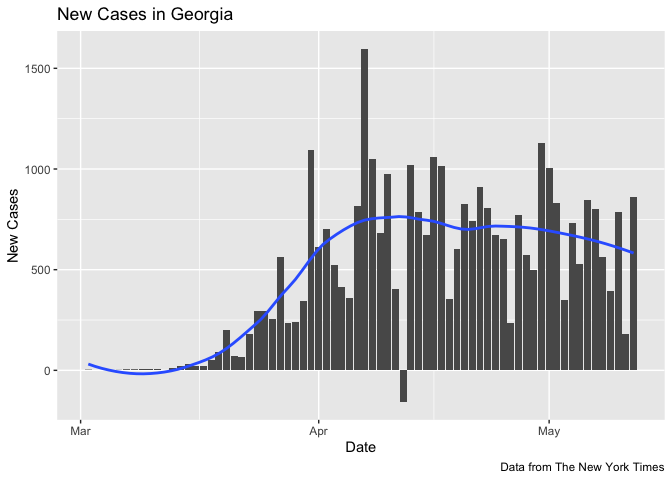
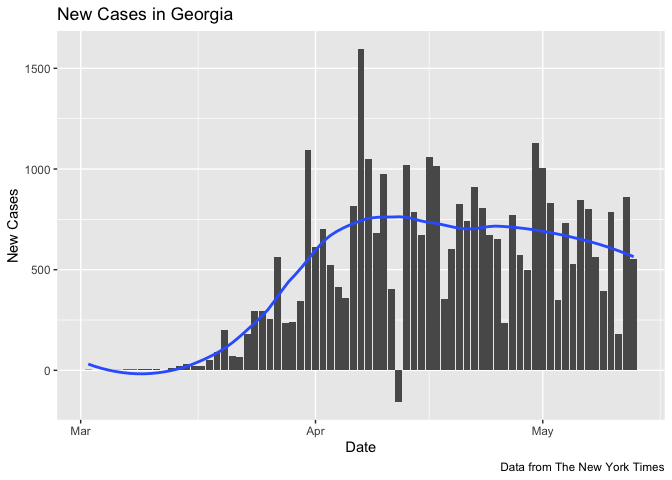
Updated data

Changed region(s): [[0.25, 0.0938, 0.9688, 0.8438], [0.7812, 0.875, 0.8438, 0.9062], [0.4375, 0.875, 0.5, 0.9062]]

diff --git a/Metro_Atlanta_COVID.md b/Metro_Atlanta_COVID.md
@@ -1,7 +1,7 @@
 Metro Atlanta COVID
 ================
 
-I wanted a better visualization of local Covid-19 data than I’ve been
+I wanted a better visualization of local COVID-19 data than I’ve been
 able to find, particularly in terms of the distribution of cases and
 deaths as they change over time. The charts below track confirmed cases
 and deaths in the core Metro Atlanta counties, both in absolute and
@@ -16,7 +16,7 @@ It’s hard to know how to interpret these numbers since there are major
 known unknowns. Neither confirmed cases nor deaths can be said to be
 reliable counts of the true numbers.
 
-Data current as of May 13,
+Data current as of May 14,
 2020.
 
 # Metro Atlanta
